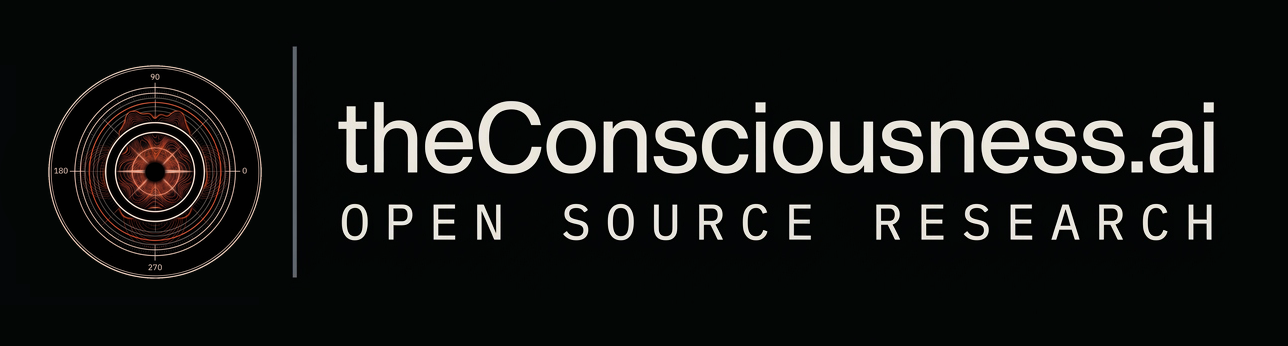
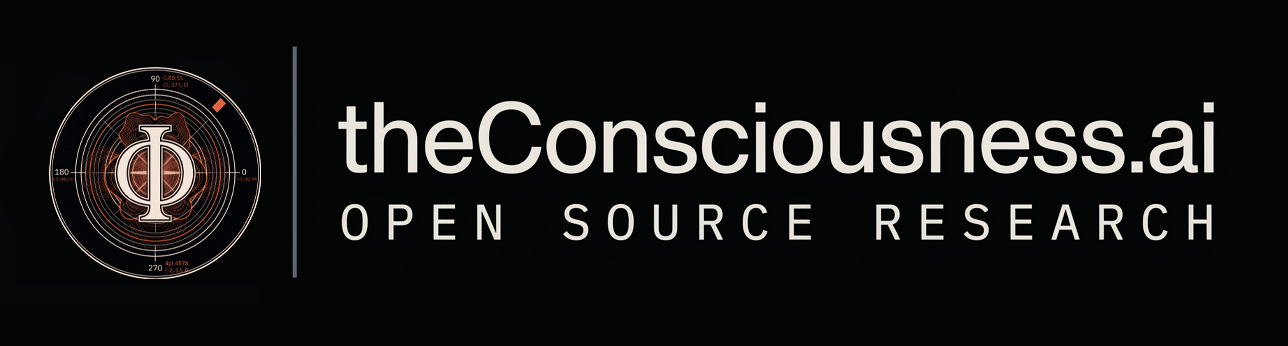
Update docs

Changed region(s): [[0.0311, 0.1734, 0.2174, 0.8092]]

diff --git a/docs/thalamic_gating_evidence.md b/docs/thalamic_gating_evidence.md
@@ -4,6 +4,12 @@
 consciousness and audits this architecture against them. Paraphrase and citation only.
 Two of the three are preprints and are labelled as such at every use.*
 
+> **Note, 2026-11-03.** The Phi-1 line cited below as FAILED ended as RE-RUN, not FAIL.
+> None of its 9 runs met the pre-registered variance floors
+> ([audit](results/rpt2_evidence_audit_2026_09.md)), so it is not a negative result that
+> corroborates a published one. The project dropped Integrated Information Theory on
+> 2026-11-03 ([decision](decisions/2026_11_03_phi_out_of_the_agent.md)).
+
 ## Why this doc exists
 
 The architecture rests its subcortical thesis on Feinberg-Mallatt and Merker
